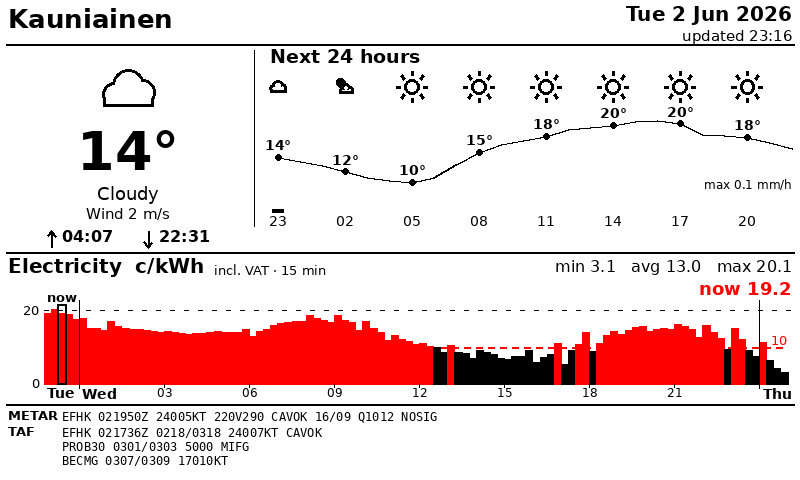
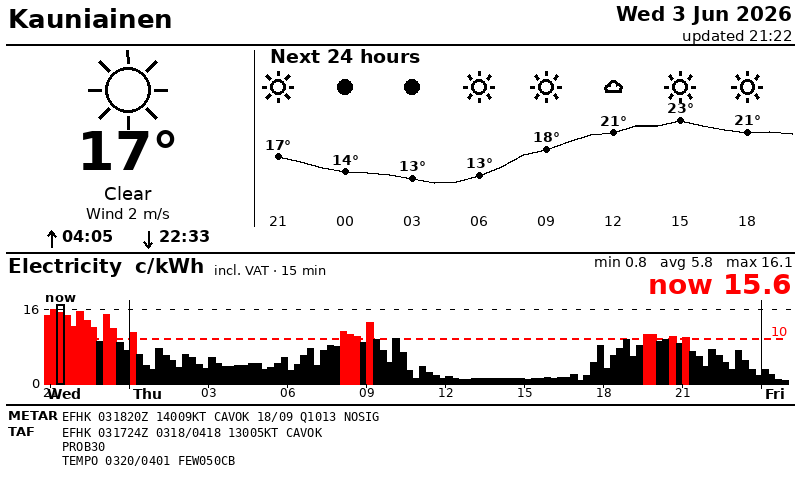
Add MIT license; speed up updates; bigger current-price font
- LICENSE (MIT) + README license note
- render.split_planes vectorised with PIL channel ops (byte-identical to the
  per-pixel version, ~seconds -> ~1s on the C2)
- parallel data fetch (weather/prices/METAR-TAF concurrent, not sequential)
- larger "now" electricity price in the chart header

diff --git a/main.py b/main.py
@@ -50,36 +50,35 @@ def gather():
 
     Returns (weather, prices, generated_at, stale, errors).
     """
+    from concurrent.futures import ThreadPoolExecutor
+
     cache = _load_cache()
     errors = []
     now = datetime.now(timezone.utc)
 
-    weather = None
-    try:
-        weather = weather_mod.get_weather()
-        cache["weather"] = weather
-        cache["weather_ts"] = now
-    except Exception as exc:  # noqa: BLE001
-        errors.append("weather: %s" % exc)
-        weather = cache.get("weather")
+    # The three sources are independent network fetches -- run them concurrently
+    # so the total wait is the slowest one, not the sum.
+    sources = [
+        ("weather", weather_mod.get_weather),
+        ("prices", elec_mod.get_prices),
+        ("aviation", aviation_mod.get_aviation),
+    ]
+    results = {}
+    with ThreadPoolExecutor(max_workers=len(sources)) as ex:
+        futures = {ex.submit(fn): key for key, fn in sources}
+        for fut, key in futures.items():
+            try:
+                results[key] = fut.result()
+                cache[key] = results[key]
+                cache[key + "_ts"] = now
+            except Exception as exc:  # noqa: BLE001
+                label = "metar/taf" if key == "aviation" else key
+                errors.append("%s: %s" % (label, exc))
+                results[key] = cache.get(key)
 
-    prices = None
-    try:
-        prices = elec_mod.get_prices()
-        cache["prices"] = prices
-        cache["prices_ts"] = now
-    except Exception as exc:  # noqa: BLE001
-        errors.append("prices: %s" % exc)
-        prices = cache.get("prices")
-
-    aviation = None
-    try:
-        aviation = aviation_mod.get_aviation()
-        cache["aviation"] = aviation
-        cache["aviation_ts"] = now
-    except Exception as exc:  # noqa: BLE001
-        errors.append("metar/taf: %s" % exc)
-        aviation = cache.get("aviation")
+    weather = results.get("weather")
+    prices = results.get("prices")
+    aviation = results.get("aviation")
 
     if weather is not None or prices is not None or aviation is not None:
         _save_cache(cache)

diff --git a/epaper/render.py b/epaper/render.py
@@ -7,7 +7,7 @@ threshold line, and freezing temperatures / thunder warnings.
 import math
 from datetime import datetime
 
-from PIL import Image, ImageDraw, ImageFont
+from PIL import Image, ImageDraw, ImageFont, ImageChops
 
 import config
 from epaper import icons
@@ -250,10 +250,10 @@ def _electricity(d, prices):
     now = prices["now"]
     summary = "min %.1f   avg %.1f   max %.1f" % (
         prices["min"], prices["avg"], prices["max"])
-    text(d, (W - 8, top + 8), summary, _f(16), anchor="ra")
+    text(d, (W - 8, top + 4), summary, _f(14), anchor="ra")
     if now:
         nowtxt = "now %.1f" % now["price"]
-        text(d, (W - 8, top + 30), nowtxt, _f(18, bold=True),
+        text(d, (W - 8, top + 22), nowtxt, _f(28, bold=True),
              fill=RED if now["over"] else BLACK, anchor="ra")
 
     hours = prices["hours"]
@@ -416,20 +416,22 @@ def render(weather, prices, aviation=None, generated_at=None, stale=False,
 def split_planes(img):
     """Split an RGB(black/red/white) image into (black_img, red_img) as mode-'1'
     images where pixel 0 = ink, 255 = blank, matching the panel buffer builder.
+
+    Vectorised with PIL channel ops (C-speed) instead of a per-pixel Python loop
+    -- the per-pixel version took seconds on the Odroid C2.
     """
-    rgb = img.convert("RGB")
-    r, g, b = rgb.split()
-    # black plane: pixels that are dark in all channels
-    # red plane: red-dominant pixels
-    px = rgb.load()
-    black = Image.new("1", (W, H), 1)
-    red = Image.new("1", (W, H), 1)
-    bpx, rpx = black.load(), red.load()
-    for y in range(H):
-        for x in range(W):
-            pr, pg, pb = px[x, y]
-            if pr > 160 and pg < 110 and pb < 110:
-                rpx[x, y] = 0          # red ink
-            elif pr < 128 and pg < 128 and pb < 128:
-                bpx[x, y] = 0          # black ink
+    r, g, b = img.convert("RGB").split()
+    # per-channel 0/255 threshold masks (mode 'L'); multiply acts as logical AND
+    hi = lambda ch, t: ch.point(lambda v, t=t: 255 if v > t else 0)
+    lo = lambda ch, t: ch.point(lambda v, t=t: 255 if v < t else 0)
+    AND = ImageChops.multiply
+
+    # 255 where red (red-dominant); 255 where black (dark in all channels).
+    # red is excluded from black automatically since red needs r > 160.
+    red_mask = AND(AND(hi(r, 160), lo(g, 110)), lo(b, 110))
+    black_mask = AND(AND(lo(r, 128), lo(g, 128)), lo(b, 128))
+
+    # driver wants 0 = ink: invert (mask is 255 at ink), then pack to 1-bit
+    black = ImageChops.invert(black_mask).convert("1", dither=Image.NONE)
+    red = ImageChops.invert(red_mask).convert("1", dither=Image.NONE)
     return black, red

diff --git a/README.md b/README.md
@@ -171,3 +171,8 @@ so a flaky network never blanks the panel.
 - **Tomorrow's prices missing** — Nord Pool publishes them ~14:15 local; before
   that the chart only shows through end of today.
 - **Wrong times** — set the device timezone: `timedatectl set-timezone Europe/Helsinki`.
+
+## License
+
+MIT — see [LICENSE](LICENSE). The bundled DejaVu fonts in `fonts/` are
+distributed under their own permissive (Bitstream Vera / public-domain) license.